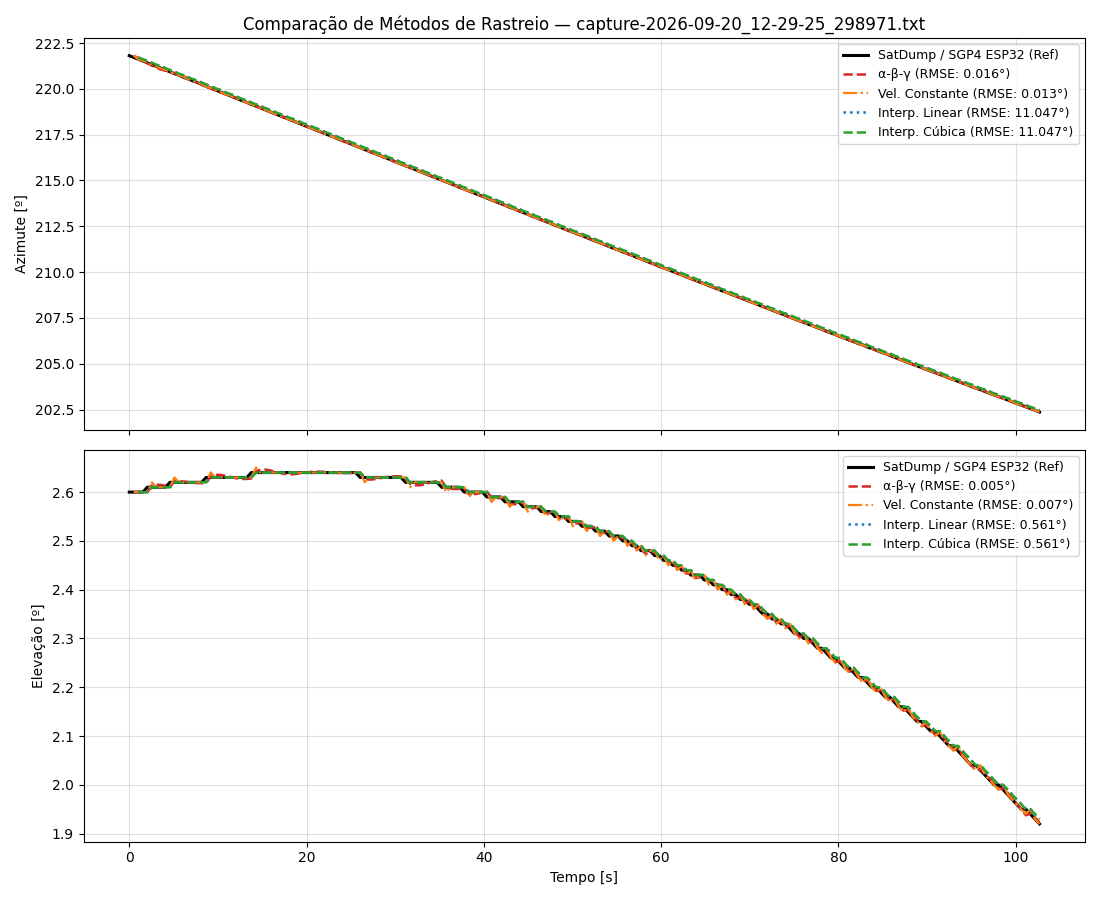
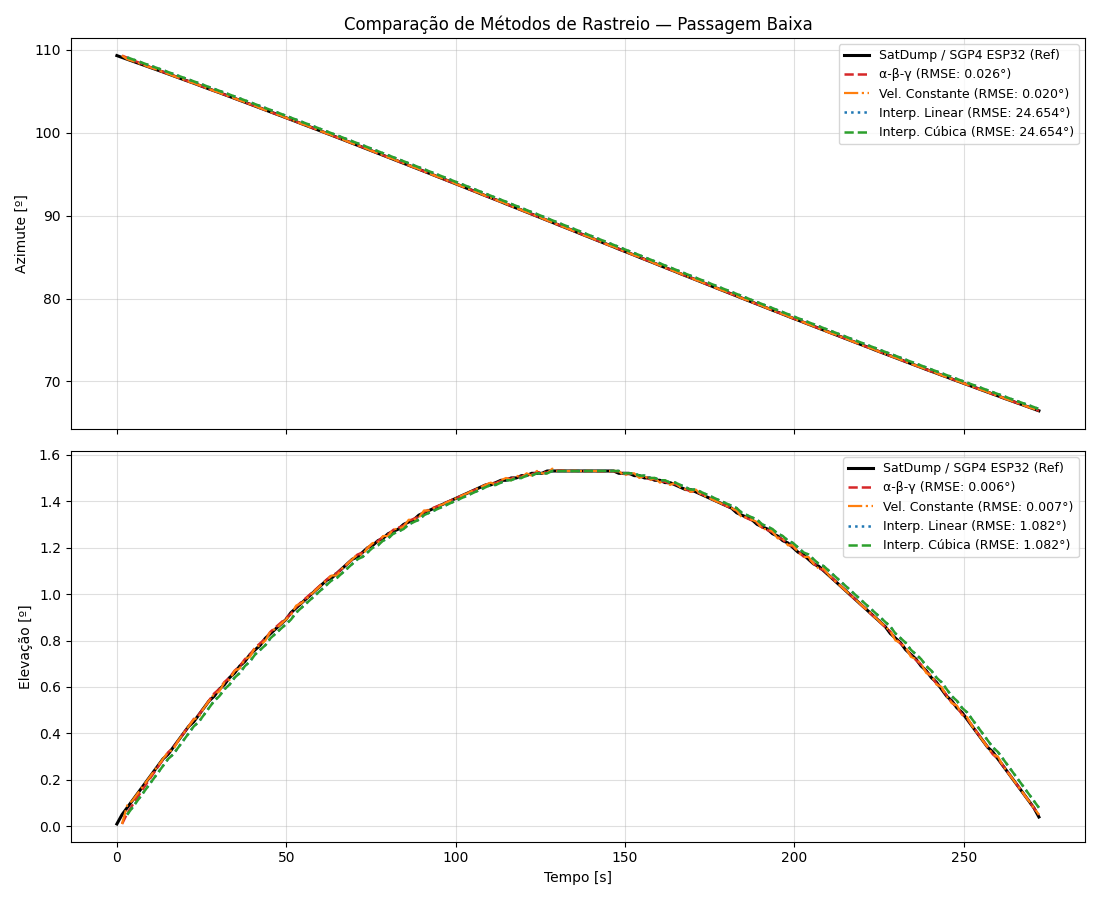
before removing DH

diff --git a/Docs/TG_IAR_Dissertacao/capitulos/resultados.tex b/Docs/TG_IAR_Dissertacao/capitulos/resultados.tex
@@ -144,8 +144,38 @@ O programa seleciona o filtro com o menor erro e repete o processo novamente. Qu
 Quando o algoritmo repete os mesmos parâmetros de filtro um determinado número de vezes (para o caso do projeto, 15 vezes), o programa é encerrado e os valores calculados são determinados como os valores ótimos para o filtro.
 
 Os valores obtidos continham 16 casas decimais, porém, nesse nível de precisão, erros de arredondamento em ponto flutuante acabam interferindo no resultado.
-Dessa forma, arredondando para três algarismos após a vírgula, foram obtidos $\alpha = 0{,}937$, $\beta = 0{,}298$, e $\gamma = 0,120$ para o azimute, e $\alpha = 1{,}071$, $\beta = 0{,}253$, e $\gamma = 0.122$ para a elevação.
-É importante ressaltar que o $\alpha$ para a elevação está selecionado como sendo maior que 1. Esse valor não é usual, já que indica uma estimação de predição que estima um valor maior que a da amplitude do erro. Porém, como o algoritmo convergiu a este valor, os parâmetros embarcados serão os indicados anteriormente.
+Dessa forma, arredondando para três algarismos após a vírgula, foram obtidos $\alpha = 0{,}949$, $\beta = 0{,}267$, e $\gamma = 0,001$ para o azimute, e $\alpha = 0{,}951$, $\beta = 0{,}170$, e $\gamma = 0.003$ para a elevação.
+É importante ressaltar os parâmetros $\alpha$ são menores que 1, estando todos estáveis em função do tempo. Para um passo de amostragem constante $\Delta t = T$, o filtro $\alpha$-$\beta$-$\gamma$ discreto no domínio-$z$ possui equação característica dada pela Equação \ref{eq:abg_polos}.
+Expandindo a equação e separando novamente em potências de $z$, tem-se a Equação \ref{eq:expansao_pot_z}.
+\begin{align}
+    P(z) = (z - 1)^3 + \alpha(z - 1)^2 z + \beta(z - 1)z + \gamma z^2 = 0 \label{eq:abg_polos} \\
+    (1 + \alpha + \beta + \gamma)z^3 - (3 + 2\alpha + \beta)z^2 + (3 + \alpha)z - 1 = 0 \label{eq:expansao_pot_z}
+\end{align}
+
+Considerando $\alpha = 0{,}949$, $\beta = 0{,}267$ e $\gamma = 0{,}001$, é possível calcular os coeficientes multiplicando $z$ dados pelas Equações \ref{eq:coefs_az_1}, \ref{eq:coefs_az_2}, e \ref{eq:coefs_az_3}, resultando na equação característica denotada na Equação \ref{eq:eq_caracteristica_az}.
+\begin{align}
+    1 + \alpha + \beta + \gamma &= 1 + 0{,}949 + 0{,}267 + 0{,}001 = 2{,}217 \label{eq:coefs_az_1}\\
+    3 + 2\alpha + \beta &= 3 + 2(0{,}949) + 0{,}267 = 5{,}165 \label{eq:coefs_az_2}\\
+    3 + \alpha &= 3 + 0{,}949 = 3{,}949 \label{eq:coefs_az_3} \\
+    2{,}217z^3 - 5{,}165z^2 + 3{,}949z - 1 = 0 \label{eq:eq_caracteristica_az} \\
+    z_{1,\text{az}} &\approx 0{,}946353 \label{eq:polo_real_az}\\
+    z_{2,3,\text{az}} &\approx 0{,}691815 \pm j\,0{,}366472 \label{eq:polos_imag_az}
+\end{align}
+
+Agora, considerando $\alpha = 0{,}951$, $\beta = 0{,}170$ e $\gamma = 0{,}003$, calcula-se da mesma maneira os coeficientes (representados nas Equações \ref{eq:coefs_el_1}, \ref{eq:coefs_el_2}, e \ref{eq:coefs_el_3}), com equação característica dada pela Equação \ref{eq:eq_caracteristica_el}.
+\begin{align}
+    1 + \alpha + \beta + \gamma &= 1 + 0{,}951 + 0{,}170 + 0{,}003 = 2{,}124 \label{eq:coefs_el_1}\\
+    3 + 2\alpha + \beta &= 3 + 2(0{,}951) + 0{,}170 = 5{,}072 \label{eq:coefs_el_2}\\
+    3 + \alpha &= 3 + 0{,}951 = 3{,}951 \label{eq:coefs_el_3} \\
+    2{,}124z^3 - 5{,}072z^2 + 3{,}951z - 1 = 0 \label{eq:eq_caracteristica_el} \\
+    z_{1,\text{el}} &\approx 0{,}965814 \label{eq:polo_real_el}\\
+    z_{2,3,\text{el}} &\approx 0{,}711099 \pm j\,0{,}264587 \label{eq:polos_imag_el}
+\end{align}
+
+Calculando os polos através do Octave, foi possível calcular o filtro do azimute como possuindo um polo real (conforme Equação \ref{eq:polo_real_az}) e dois polos complexos conjugados (Equação \ref{eq:polos_imag_az}).
+O mesmo é observado na elevação, também com um polo real (Equação \ref{eq:polo_real_el}) e dois polos complexos conjugados (Equação \ref{eq:polos_imag_el}).
+Isso garante que ambos filtros sejam assintoticamente estáveis, com todos os polos dentro do círculo unitário de $z$.
+Os módulos dos polos complexos também são menores que os módulos dos polos reais, demonstrando que o transitório dos filtros é marcado por grandes influências dos polos reais lentos, porém possuindo ainda um regime oscilatório que se dissipa rapidamente.
 
 Com os testes exemplificados nas figuras \ref{subfig:passagem_baixa}, \ref{subfig:passagem_alta}, \ref{subfig:passagem_dupla} e \ref{subfig:passagem_zenite}, foi possível observar algumas características do filtro ao sistema.
 Os gráficos gerados indicam as movimentações de passagens diversas de satélites em função do tempo. O eixo das abscissas representa o período decorrido desde a recepção do primeiro dado, enquanto o eixo das ordenadas indica o ângulo em graus que os mecanismos de azimute e elevação se encontram.
@@ -157,6 +187,29 @@ Para o caso do rastreio de satélites seguidos é possível perceber que, na tra
 O mesmo fenômeno é observado para uma passagem próxima de zênite, na qual o azimute sofre uma variação brusca, fazendo ocorrer uma oscilação quando há uma diminuição na taxa de crescimento do ângulo.
 Uma solução para esse fenômeno seria alterar os parâmetros do filtro, fazendo com que esse tenha uma banda passante menor, aumentando o amortecimento do sistema para altas frequências.
 Outra solução pode ser incluir no algoritmo uma forma de detectar a diferença entre a posição predita e a posição real, reiniciando os parâmetros de predição do filtro quando essa diferença ultrapassar determinado valor.
+
+Para comparar a eficiência do filtro calibrado em relação aos demais modelos, foram feitos outros filtros comuns para verificar os seus desempenhos.
+Os dois primeiros filtros foram interpoladores, sendo um linear e um cúbico.
+O problema desses interpoladores surge na questão de que é necessário esperar uma amostra para iniciar a movimentação dos motores.
+Isso faz com que exista sempre um atraso constante entre a posição real e a posição estimada. Para o erro RMS, essa diferença se acumula durante o tempo, gerando um sinal grande.
+Além disso, como os dois interpoladores possuem a mesma defasagem (de um segundo) e não possuem erro em relação à posição da amostra (já que esses sabem a posição anterior do satélite), eles possuem o mesmo valor para a raiz do erro quadrático médio bem próximo entre si.
+Outro ponto a se observar é que como esses sistemas enviam uma 
+
+\begin{table}[h!]
+\centering
+\caption{Comparação consolidada do erro RMS médio para Azimute (AZ) e Elevação (EL).}
+\label{tab:rms_consolidado}
+\begin{tabular}{@{}l S[table-format=2.4] S[table-format=2.4]@{}}
+\toprule
+\textbf{Método} & {\textbf{RMS Médio AZ [$^\circ$]}} & {\textbf{RMS Médio EL [$^\circ$]}} \\
+\midrule
+Filtro $\alpha$-$\beta$-$\gamma$ & 1,1666 & 0,1155 \\
+Velocidade Constante & 1,9012 & 0,1453 \\
+Interpolação Linear & 80,0272 & 29,6272 \\
+Interpolação Cúbica & 65,4552 & 18,6549 \\
+\bottomrule
+\end{tabular}
+\end{table}
 
 \section{Eletrônica do Protótipo}\label{sec:eletronica_prototipo}
 Para o controle da eletrônica do mecanismo, foi programado o ESP32 conforme a arquitetura especificada no fluxograma da Figura \ref{fig:divisao_tarefas_esp}. O resultado foi uma seleção de telas divididas em dois estados: sem conexão (Figura \ref{fig:telas_desconectado}) e conectado (Figura \ref{fig:telas_conectado}).
@@ -238,7 +291,7 @@ A posição predita pelo filtro é enviada ao simulador, que representa a posiç
 
 A fim de verificar o funcionamento do filtro, foi desenvolvido um gráfico que mostra o funcionamento do sistema em tempo real. Esse gráfico possui uma linha indicando a posição do satélite e a posição predita pelo filtro, e pode ser visto na Figura \ref{fig:simul_abg}.
 A linha vermelha indica a posição real do satélite enviada pelo SatDump, enquanto a linha azul indica a posição das juntas do mecanismo simulado. Para a finalidade de otimização do desenho do gráfico, foram mantidos somente os últimos 300 pontos dos dois desenhos.
-Como o filtro gera uma grande quantidade de pontos intermediários, a linha azul possui uma maior densidade de pontos e um comprimento menor. O tempo que compõe o eixo X é a quantidade de segundos desde o início da captura. 
+Como o filtro gera um excesso de pontos intermediários, a linha azul possui uma maior densidade de pontos e um comprimento menor. O tempo que compõe o eixo X é a quantidade de segundos desde o início da captura. 
 No gráfico, é possível perceber a correção dos parâmetros do filtro marcadas pelos "dentes de serra" na curva azul, mostrando que o sistema está estimando a trajetória do satélite em tempo real e corrigindo as estimativas de posição, velocidade e aceleração.
 As últimas amostras do filtro demonstram que o sistema conseguiu estabelecer o rastreio corretamente, necessitando de poucas correções para se manter na trajetória correta.
 
@@ -259,11 +312,11 @@ O primeiro e mais crítico é o que, na rotina de retorno à posição inicial, 
 No sistema físico, esse comportamento poderá causar um grande estresse no sistema, causando dano estrutural ao protótipo.
 O retorno à posição inicial ocorre sempre que o sistema para de receber informação por um período maior que 30 segundos (6:55 do segundo vídeo no Apêndice \ref{cap:apendice_umbra}) ou no final de um rastreio (10:56 do segundo vídeo no Apêndice \ref{cap:apendice_umbra}), permitindo o sistema desenrolar os cabos e se preparar para uma nova captura.
 Uma solução que poderá ser implementada ao sistema final é possuir uma velocidade máxima dos motores para se movimentar entre alvos.
-Isso garantirá que o sistema não virá a sofrer danos estruturais durante sua operação.
+Isso garantirá que o sistema não sofrerá danos estruturais durante sua operação.
 
 Uma segunda questão que acabou auxiliando o sistema simulado é que, como visto nas figuras \ref{fig:passagens_diversas} e \ref{subfig:passagem_zenite}, o filtro possui grandes sobressinais quando o sistema muda seu alvo abruptamente.
 Entretanto, como visto principalmente no vídeo de troca de alvos do Apêndice \ref{cap:apendice_umbra}, a inércia do sistema impede o desalinhamento da antena, fazendo com que o sobressinal não seja realmente aplicado ao modelo.
-Apesar desse efeito, a oscilação ainda se mantém, fazendo com que o sistema divirja da posição desejada (como pode ser visto aos 1:55, 5:18, e 5:52 minutos do vídeo). Após um determinado período de tempo, o sistema retorna a se estabilizar e seguir a posição do satélite.
+Apesar desse efeito, a oscilação ainda se mantém, fazendo com que o sistema divirja da posição desejada (como pode ser visto aos 1:55, 5:18, e 5:52 minutos do vídeo). Após um determinado tempo, o sistema retorna a se estabilizar e seguir a posição do satélite.
 Esse problema parece ser causado pela característica do sistema de tentar manter a predição anterior. Então, até todos os fatores se corrigirem para a nova trajetória, ocorre uma oscilação claramente visível na posição da antena.
 A solução para esse caso pode ser uma forma do sistema perceber que há uma grande diferença de trajetórias e reiniciar os coeficientes do filtro para que esse nunca se torne oscilante.
 
@@ -305,29 +358,29 @@ No geral, o simulador demonstrou ser uma boa ferramenta para transicionar de um 
 \end{figure*}
 
 \begin{figure*}[h!]
-        \subfloat[Passagem de baixa elevação cenários de teste]{%
+        \subfloat[Passagem de baixa elevação nos cenários de teste]{%
             \includegraphics[width=.90\linewidth]{figs/passagem_baixa_teste.png}%
             \label{subfig:passagem_baixa_teste}%
         }\\
-        \subfloat[Passagem com grande variação no azimute e na elevação]{%
-            \includegraphics[width=.90\linewidth]{figs/passagem_media_teste.png}%
+        \subfloat[Passagem com grande variação no azimute e na elevação para grupo de teste]{%
+            \includegraphics[width=.90\linewidth]{figs/passagem_alta_teste.png}%
             \label{subfig:passagem_alta_teste}%
         }
-        \caption{Comportamento do filtro quando exposto a rastreios reais de satélite}
+        \caption{Comportamento dos filtros quando expostos a amostras do grupo de teste}
         \legend{Fonte: Autor (2026)}
         \label{fig:passagens_diversas_teste}
 \end{figure*}
 
 \begin{figure*}[h!]
-        \subfloat[Passagem com rastreio de dois satélites seguidos]{%
-            \includegraphics[width=.90\linewidth]{figs/passagem_3_dupla.png}%
-            \label{subfig:passagem_media_teste}%
+        \subfloat[Passagem com rastreio de três satélites seguidos em grupo de teste]{%
+            \includegraphics[width=.90\linewidth]{figs/passagens_multiplas_teste.png}%
+            \label{subfig:passagem_tripla_teste}%
         }\\
-        \subfloat[Passagem próxima ao zênite]{%
-            \includegraphics[width=.90\linewidth]{figs/passagem_4_zenite.png}%
+        \subfloat[Passagem próxima ao zênite em grupo de teste]{%
+            \includegraphics[width=.90\linewidth]{figs/passagem_zenite_teste.png}%
             \label{subfig:passagem_zenite_teste}%
         }
-        \caption{Casos de passagem que geraram instabilidade no filtro}
+        \caption{Casos de passagem que geraram instabilidade nos filtros preditivos}
         \legend{Fonte: Autor (2026)}
-        \label{fig:passagens_diversas_teste_2}
+        \label{fig:passagens_instaveis_teste}
 \end{figure*}

diff --git a/Docs/TG_IAR_Dissertacao/capitulos/Metodologia.tex b/Docs/TG_IAR_Dissertacao/capitulos/Metodologia.tex
@@ -216,7 +216,7 @@ Com isso, novamente, optou-se por seguir com as soluções já disponíveis e ad
 
 Como a posição exata do satélite é calculada de forma exata por outros eletrônicos utilizando a modelagem SGP4, a função do sistema embarcado no mecanismo de rastreio se resume a interpolar e prever a posição do satélite a partir dos dados de azimute e elevação recebidos.
 Quaisquer mecanismos de interpolação de pontos, como linear e cúbica possuirão um atraso em relação à entrada, pois esses dependem dos valores já definidos para estipular a linha de conexão entre os pontos, fazendo os métodos não serem capazes de prever a posição seguinte do satélite.
-Para os algoritmos preditivos, além do filtro $\alpha-\beta-\gamma$, serão utilizados dois outros sistemas para comparação: o primeiro é a forma utilizada atualmente pelos sistemas de apontamento amadores, sendo este a manutenção da posição anterior até receber um novo valor; e a segunda forma seria utilizar uma extrapolação de velocidade constante considerando a diferença das duas posições anteriormente recebidas.
+Para os algoritmos preditivos, além do filtro $\alpha-\beta-\gamma$, será utilizada uma extrapolação de velocidade constante considerando a diferença das duas posições anteriormente recebidas em determinado tempo.
 O filtro $\alpha-\beta-\gamma$ foi escolhido devido a suas características de estimação da velocidade e da aceleração do alvo, que podem permitir uma boa estimação da posição subsequente do satélite.
 O filtro também foi escolhido pensando em um passo futuro deste projeto, que seria a capacidade de estimar a posição de satélites a partir do sinal recebido pelo sistema.
 Entretanto, para o projeto atual, será de interesse apenas a capacidade do filtro em prever a posição dos próximos valores de azimute e elevação para a órbita do satélite.

diff --git a/Alfa_Beta_Gama_Tests/capture_check.py b/Alfa_Beta_Gama_Tests/capture_check.py
@@ -4,12 +4,12 @@ from pathlib import Path
 import matplotlib.pyplot as plt
 import random
 
-ALPHA_AZ = 0.937
-BETA_AZ = 0.298
-GAMMA_AZ = 0.12
-ALPHA_EL = 1.017
-BETA_EL = 0.253
-GAMMA_EL = 0.122
+ALPHA_AZ = 0.949
+BETA_AZ = 0.267
+GAMMA_AZ = 0.001
+ALPHA_EL = 0.951
+BETA_EL = 0.170
+GAMMA_EL = 0.003
 
 ERROR_TEST = False
 REMOVE_PERCENT = 1
@@ -145,8 +145,8 @@ if __name__ == "__main__":
             else:
                 filter_arr.append(True)
         filter_arr = np.array(filter_arr)
-        t_az,az_filter, rmse_az, pred_t_az, pred_val_az = alfa_beta_gamma_filter_fast(az_data,real_tst,ALPHA_EL,BETA_EL,GAMMA_EL,filter_arr)
-        t_el,el_filter, rmse_el, pred_t_el, pred_val_el = alfa_beta_gamma_filter_fast(el_data,real_tst,ALPHA_AZ,BETA_AZ,GAMMA_AZ,filter_arr)
+        t_az,az_filter, rmse_az, pred_t_az, pred_val_az = alfa_beta_gamma_filter_fast(el_data,real_tst,ALPHA_AZ,BETA_AZ,GAMMA_AZ,filter_arr)
+        t_el,el_filter, rmse_el, pred_t_el, pred_val_el = alfa_beta_gamma_filter_fast(az_data,real_tst,ALPHA_EL,BETA_EL,GAMMA_EL,filter_arr)
         fig, ax = plt.subplots(figsize=(8, 6))
         ax.plot(real_tst[:-2],az_data[:-2],'-',color="tab:blue",linewidth=2)
         ax.plot(real_tst[:-2],el_data[:-2],'-',color="tab:orange",linewidth=2)

diff --git a/Alfa_Beta_Gama_Tests/compare_captures.py b/Alfa_Beta_Gama_Tests/compare_captures.py
@@ -5,12 +5,12 @@ import matplotlib.pyplot as plt
 import random
 from collections import deque
 
-ALPHA_AZ = 0.937
-BETA_AZ = 0.298
-GAMMA_AZ = 0.12
-ALPHA_EL = 1.017
-BETA_EL = 0.253
-GAMMA_EL = 0.122
+ALPHA_AZ = 0.949
+BETA_AZ = 0.267
+GAMMA_AZ = 0.001
+ALPHA_EL = 0.951
+BETA_EL = 0.170
+GAMMA_EL = 0.003
 
 ERROR_TEST = False
 REMOVE_PERCENT = 1
@@ -328,8 +328,8 @@ if __name__ == "__main__":
         filter_arr[-1] = True
 
         # 1. Filtro Alfa-Beta-Gama (mantendo chamada exatamente como no original)
-        t_az_abg, az_abg, rmse_az_abg, _, _ = alfa_beta_gamma_filter_fast(az_data, real_tst, ALPHA_EL, BETA_EL, GAMMA_EL, filter_arr)
-        t_el_abg, el_abg, rmse_el_abg, _, _ = alfa_beta_gamma_filter_fast(el_data, real_tst, ALPHA_AZ, BETA_AZ, GAMMA_AZ, filter_arr)
+        t_az_abg, az_abg, rmse_az_abg, _, _ = alfa_beta_gamma_filter_fast(az_data, real_tst, ALPHA_AZ, BETA_AZ, GAMMA_AZ, filter_arr)
+        t_el_abg, el_abg, rmse_el_abg, _, _ = alfa_beta_gamma_filter_fast(el_data, real_tst, ALPHA_EL, BETA_EL, GAMMA_EL, filter_arr)
 
         # 2. Extrapolação de Velocidade Constante
         t_az_cv, az_cv, rmse_az_cv = const_vel_extrapolation(az_data, real_tst, filter_arr)

diff --git a/Alfa_Beta_Gama_Tests/teste_a_b_g.py b/Alfa_Beta_Gama_Tests/teste_a_b_g.py
@@ -108,8 +108,8 @@ canvas = FigureCanvasTkAgg(fig, master=root)
 canvas.get_tk_widget().pack(fill=tk.BOTH, expand=True)
 
 # Ganhos do filtro
-az_filter = filter(0.937, 0.298, 0.12)
-el_filter = filter(1.0, 0.253, 0.122)
+az_filter = filter(0.949, 0.267, 0.001)
+el_filter = filter(0.951, 0.170, 0.003)
 
 # Histórico de dados
 real_tm, real_az, real_el = [], [], []

diff --git a/MuJoCo/antenna/simulacao.py b/MuJoCo/antenna/simulacao.py
@@ -178,8 +178,8 @@ class filter():
         self.first_run = True
 
 # Ganhos do filtro
-az_filter = filter(0.937, 0.298, 0.12)
-el_filter = filter(1.0, 0.253, 0.122)
+az_filter = filter(0.949, 0.267, 0.001)
+el_filter = filter(0.951, 0.170, 0.003)
 az_val = 0
 el_val = 0
 server_connected = False
